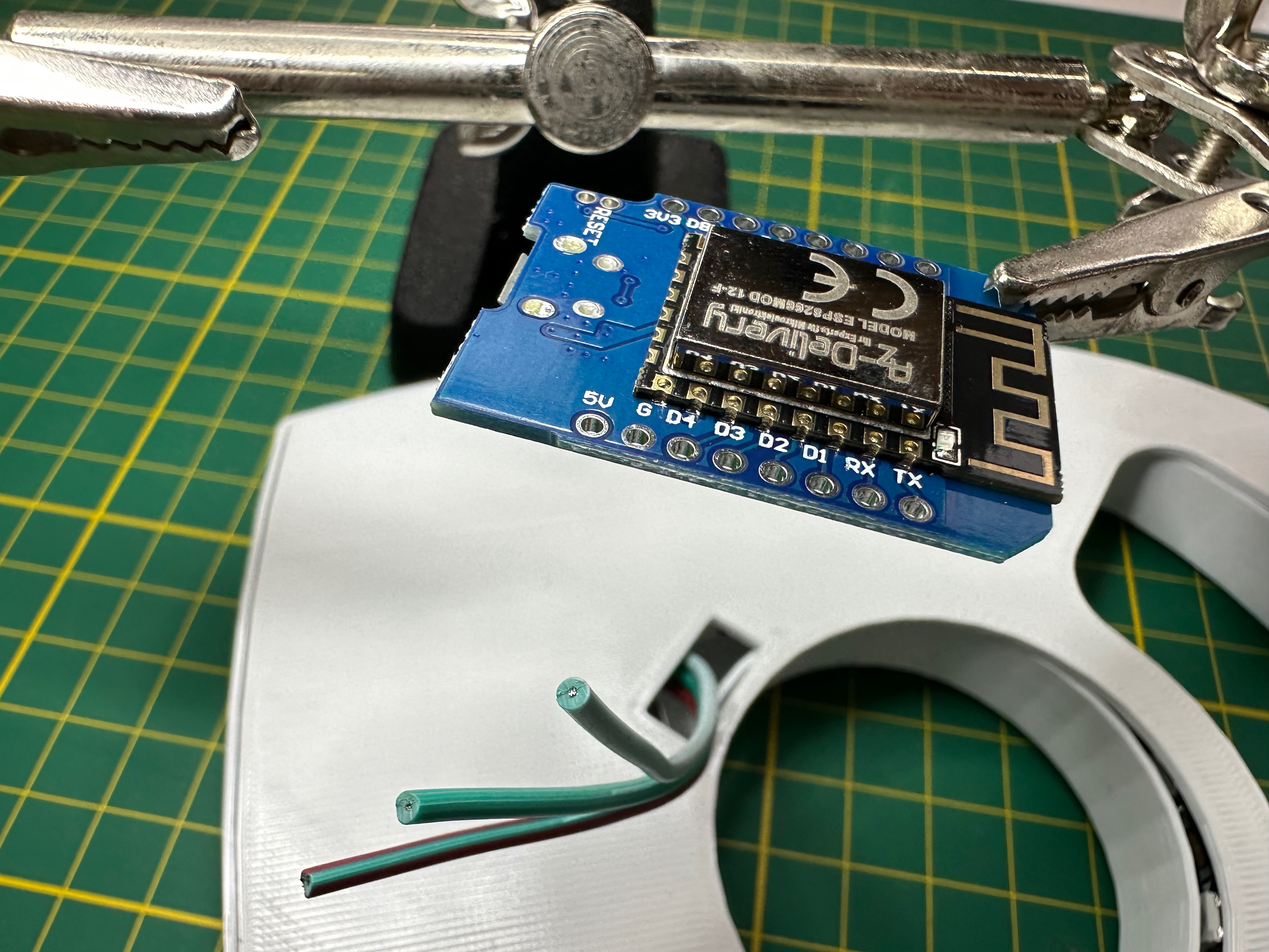
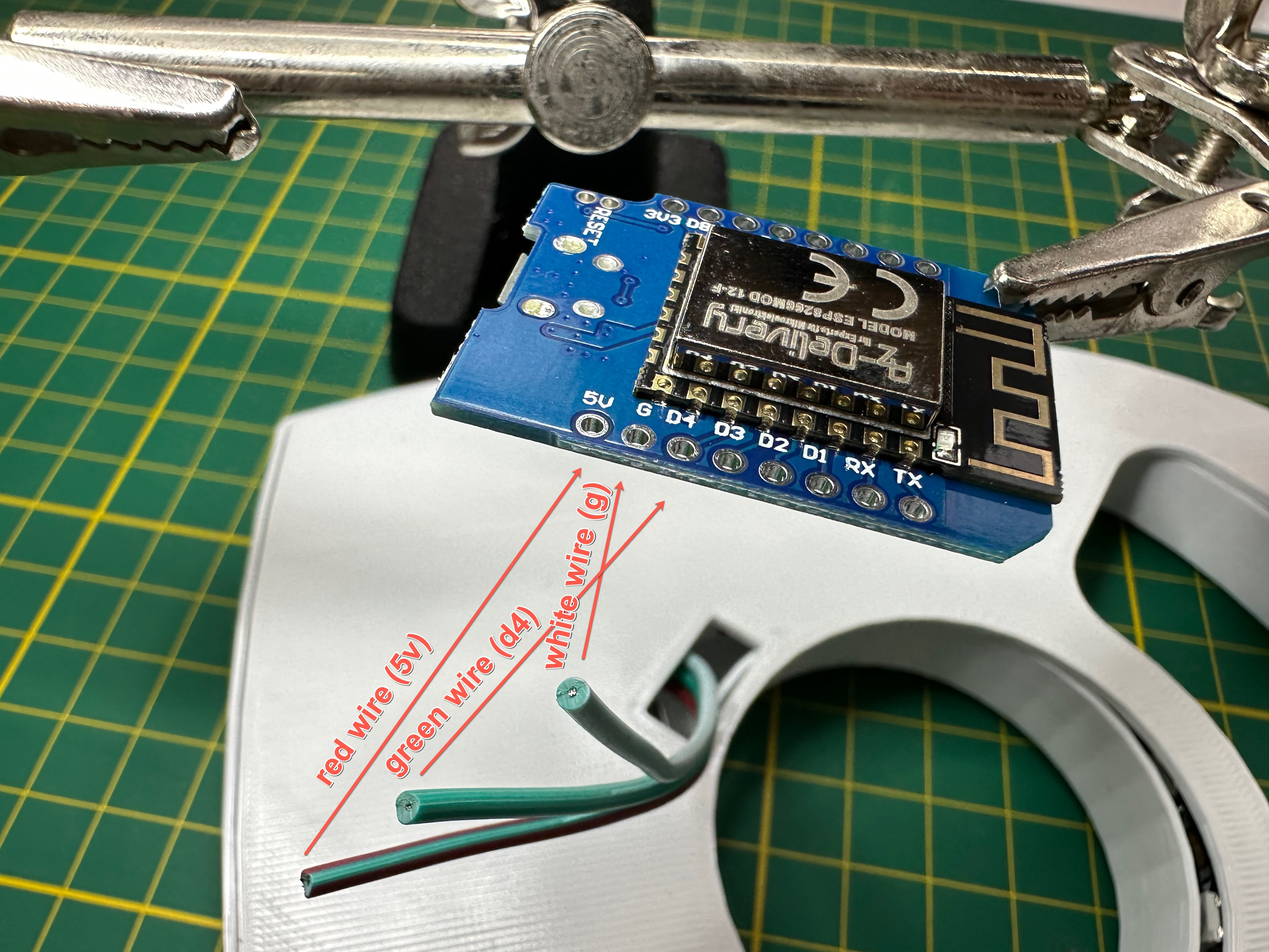
Changes
Image annotations and update to README

Changed region(s): [[0.25, 0.4974, 0.5312, 0.8704]]

diff --git a/README.md b/README.md
@@ -50,13 +50,13 @@ The White Inner component acts as the guide for the flexible LED strip as well a
 
 <img src="images/ledlayout1.jpeg" alt="Path of the LED strip" width="600">
 
-When finished you should have around 100 LED's in your lamp, but it's worth counting at this point as you'll need the exact number later (depending how I did my sticking I've used anything from 99 to 105)
+When finished you should have around 100 LED's in your lamp, but it's worth counting at this point as you'll need the exact number later.
 
 #### Step 3 - Add the Reflector
 Next, feed the wires through the hole in the reflector. If you are using plugs to connect your strip and controller then you can do this at any time but if you are soldering the strip directly to the controller then you need to do it now.
 
 #### Step 4 - Solder LED Strip to D1 Mini
-Rather than use plugs, I solder my strip directly to my D1 Mini, but you can use connectors if you wish.  Connect the +5v and G lines to the corresponding pins on the D1 Mini and the data line to D4 (just above the +5v and G pins).
+Rather than use plugs, I solder my strip directly to my D1 Mini. Solder the red power wire to the 5V hole, the white ground wire to the G hole and the green data wire to the D4 hole.
 
 <img src="images/controllerholes.jpeg" alt="The wires from the LED strip soldered to the D1 Mini" width="600">
 
